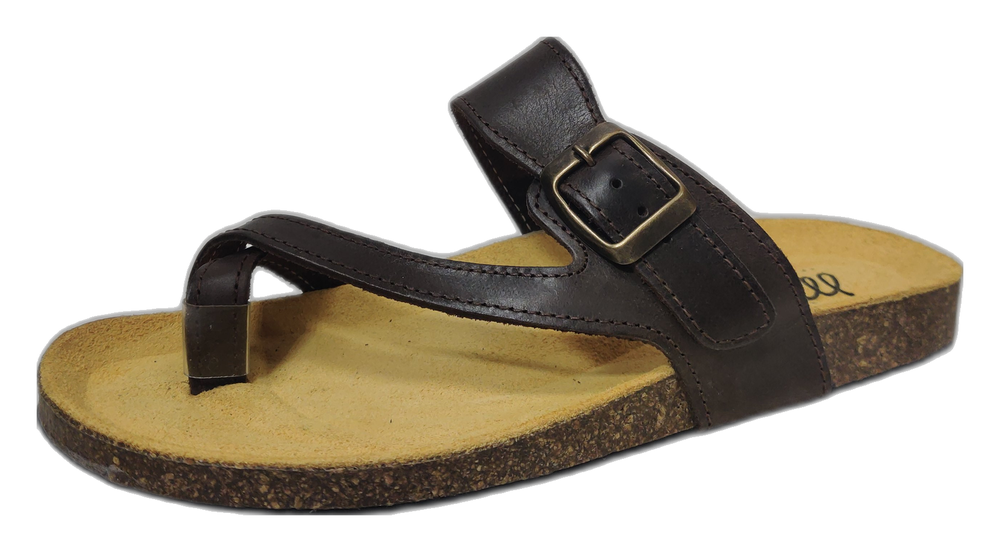
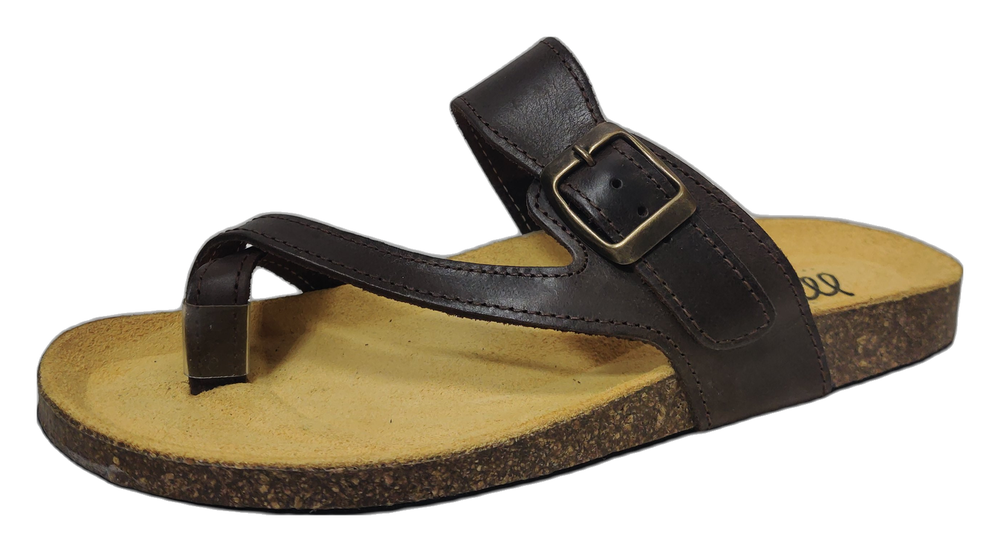
Solas pretas nítidas nos chinelos de cortiça (arestas endurecidas no recorte)
Claude-Session: https://claude.ai/code/session_01B3DnFGtgrKXUtky3rp3Gy7

diff --git a/ferramentas/converter_fotos.py b/ferramentas/converter_fotos.py
@@ -32,7 +32,8 @@ EXTENSOES = {".jpg", ".jpeg", ".png", ".webp", ".heic"}
 
 # Modelo de recorte usado por omissão e exceções por referência.
 # O "isnet-general-use" funciona bem na maioria das fotos, mas nos chinelos de sola de cortiça
-# deixa a sombra do chão como um "nevoeiro" por baixo da sola; para esses usa-se o "u2net".
+# deixa a sombra do chão como um "nevoeiro" por baixo da sola; para esses usa-se o "u2net"
+# e as arestas são endurecidas (a sola escura pousada na sua sombra fica esbatida sem isso).
 MODELO = "isnet-general-use"
 MODELO_POR_REF = {
     "1128": "u2net",
@@ -48,6 +49,13 @@ def nome_destino(ficheiro: Path):
     if not m:
         return None
     return m.group(1), m.group(2).lower()
+
+
+def endurecer(img: Image.Image, baixo=70, alto=190) -> Image.Image:
+    """Arestas nítidas: o que o recorte acha "quase de certeza sapato" fica opaco, o "quase fundo" desaparece."""
+    a = img.getchannel("A").point(lambda v: 0 if v <= baixo else 255 if v >= alto else int((v - baixo) * 255 / (alto - baixo)))
+    img.putalpha(a)
+    return img
 
 
 def recortar(img: Image.Image) -> Image.Image:
@@ -103,7 +111,10 @@ def main():
         sessao = sessoes[modelo]
         img = ImageOps.exif_transpose(Image.open(f)).convert("RGB")
         img.thumbnail((ENTRADA_MAX, ENTRADA_MAX), Image.LANCZOS)
-        img = recortar(remove(img, session=sessao))
+        cortada = remove(img, session=sessao)
+        if ref in MODELO_POR_REF:
+            cortada = endurecer(cortada)
+        img = recortar(cortada)
         img.thumbnail((LARGURA_MAX, LARGURA_MAX), Image.LANCZOS)
         saida.parent.mkdir(parents=True, exist_ok=True)
         img.save(saida, optimize=True)
